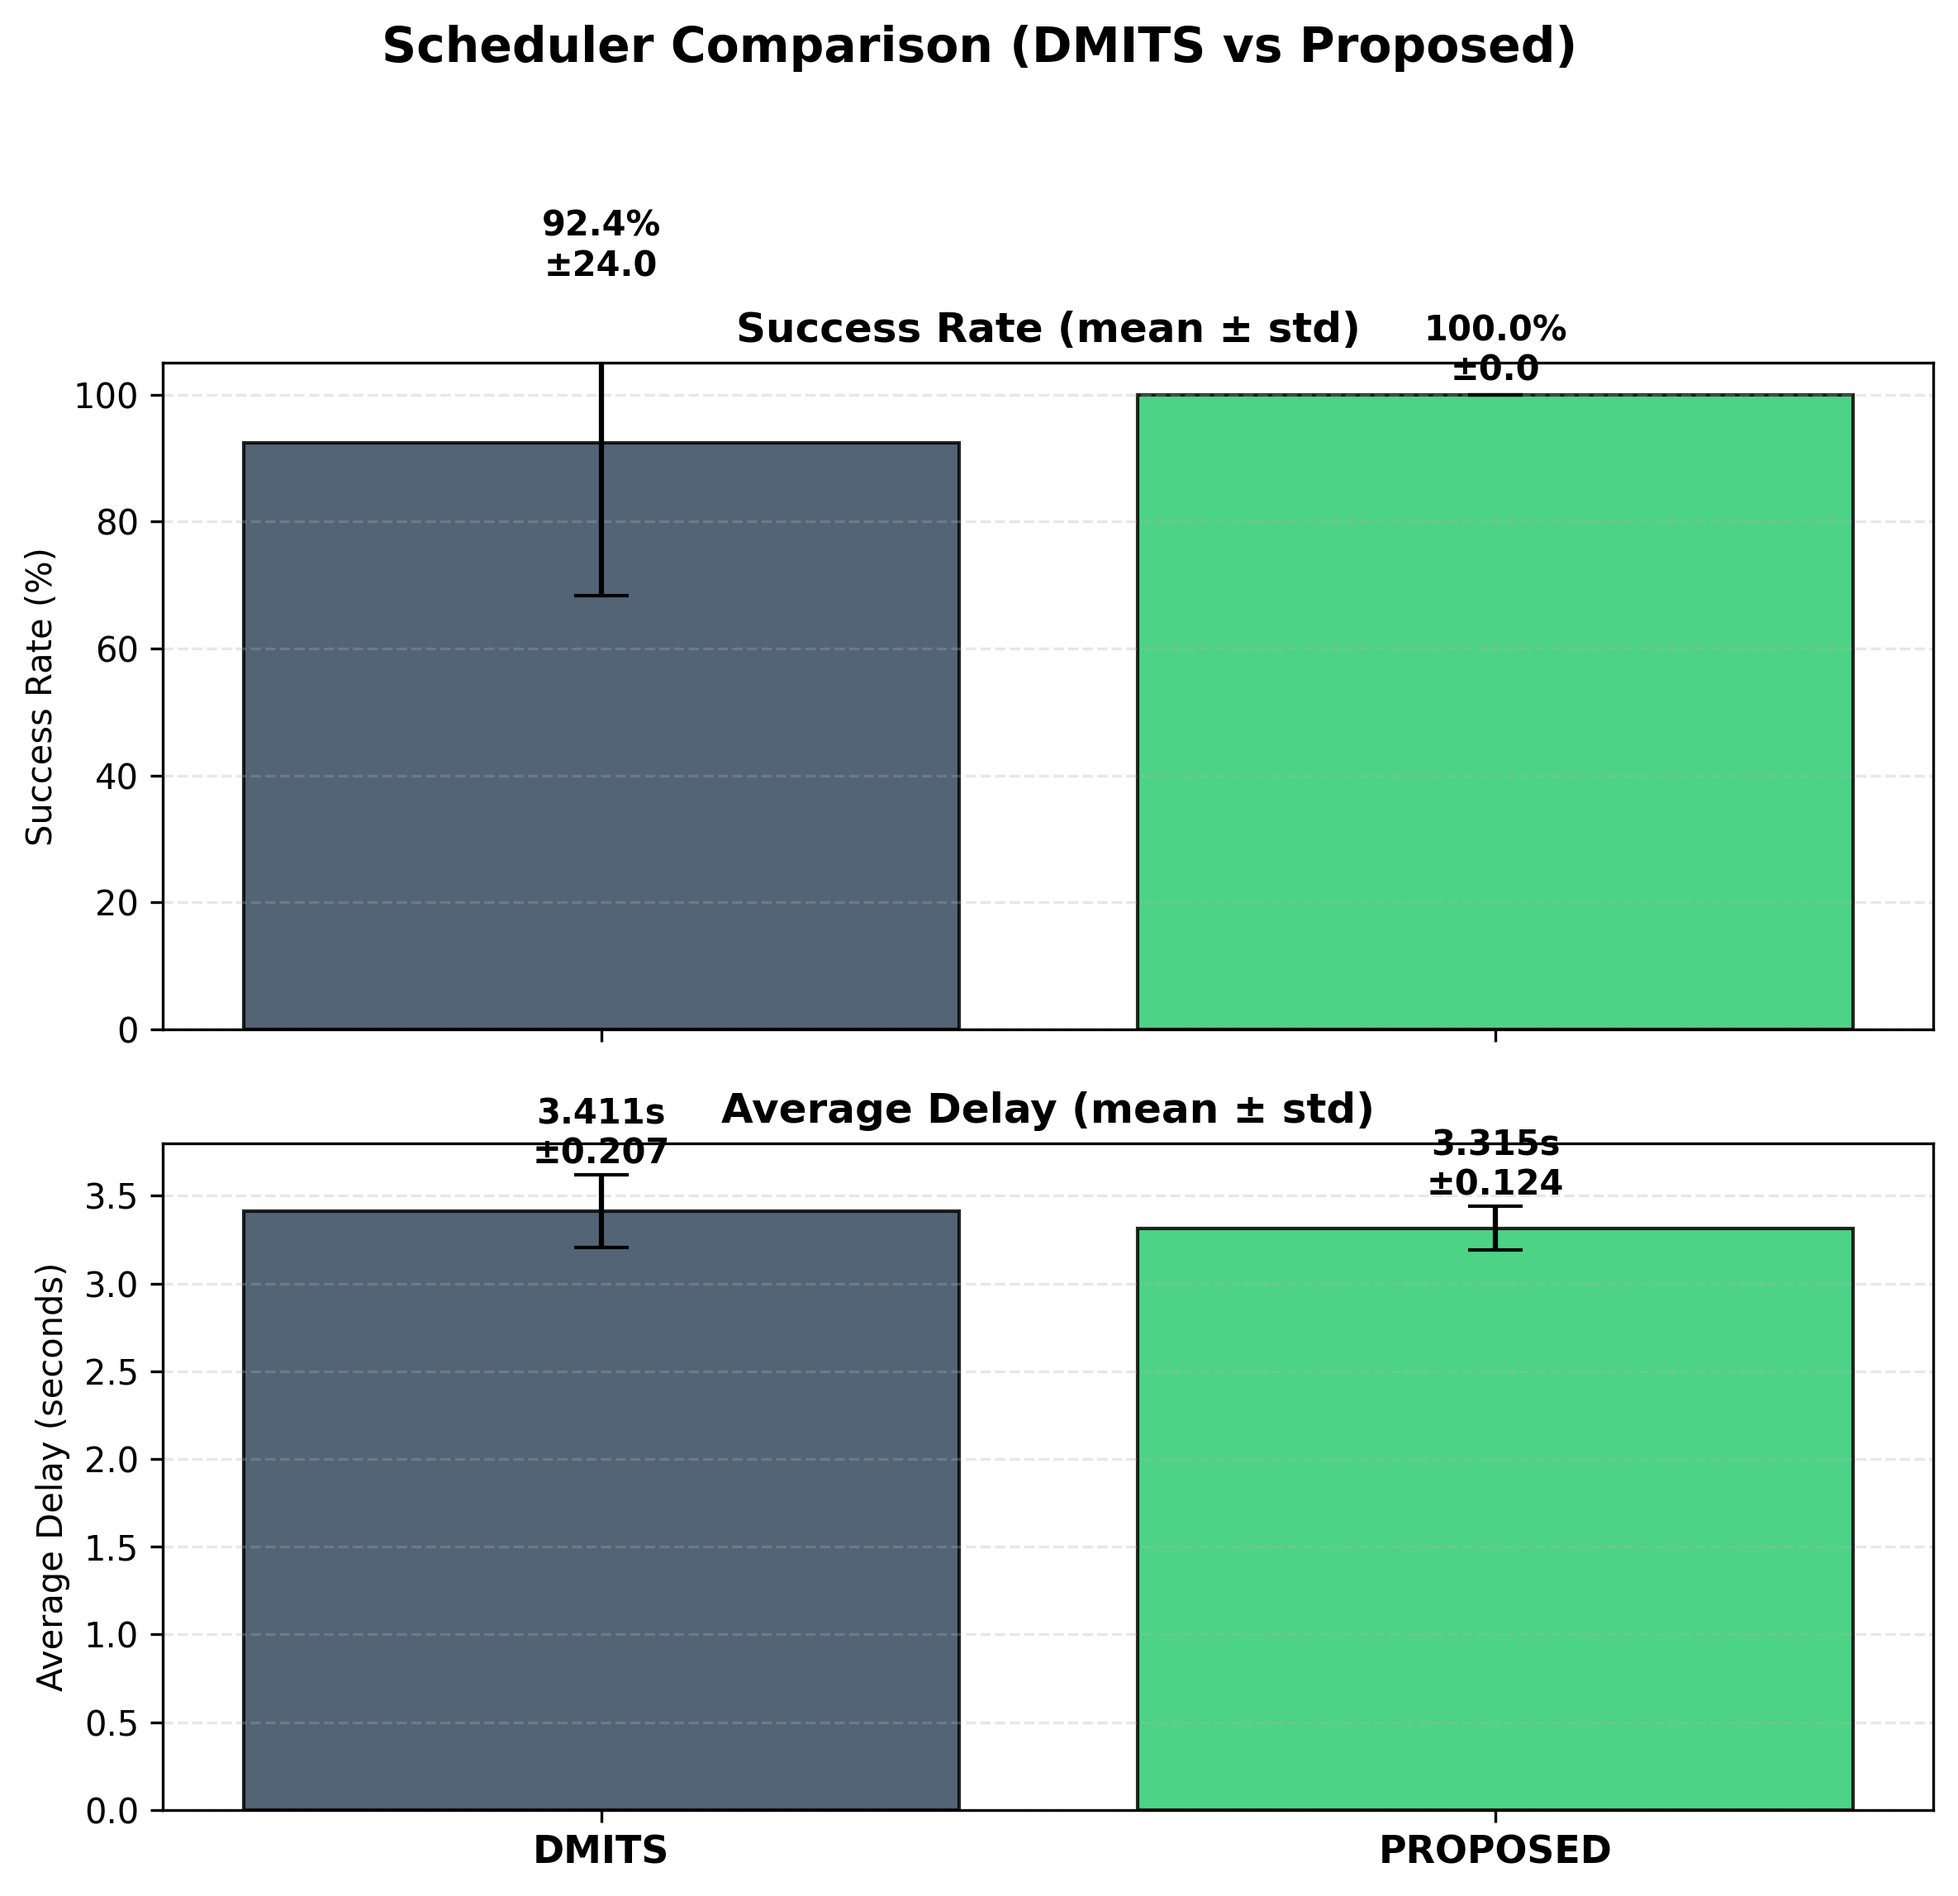
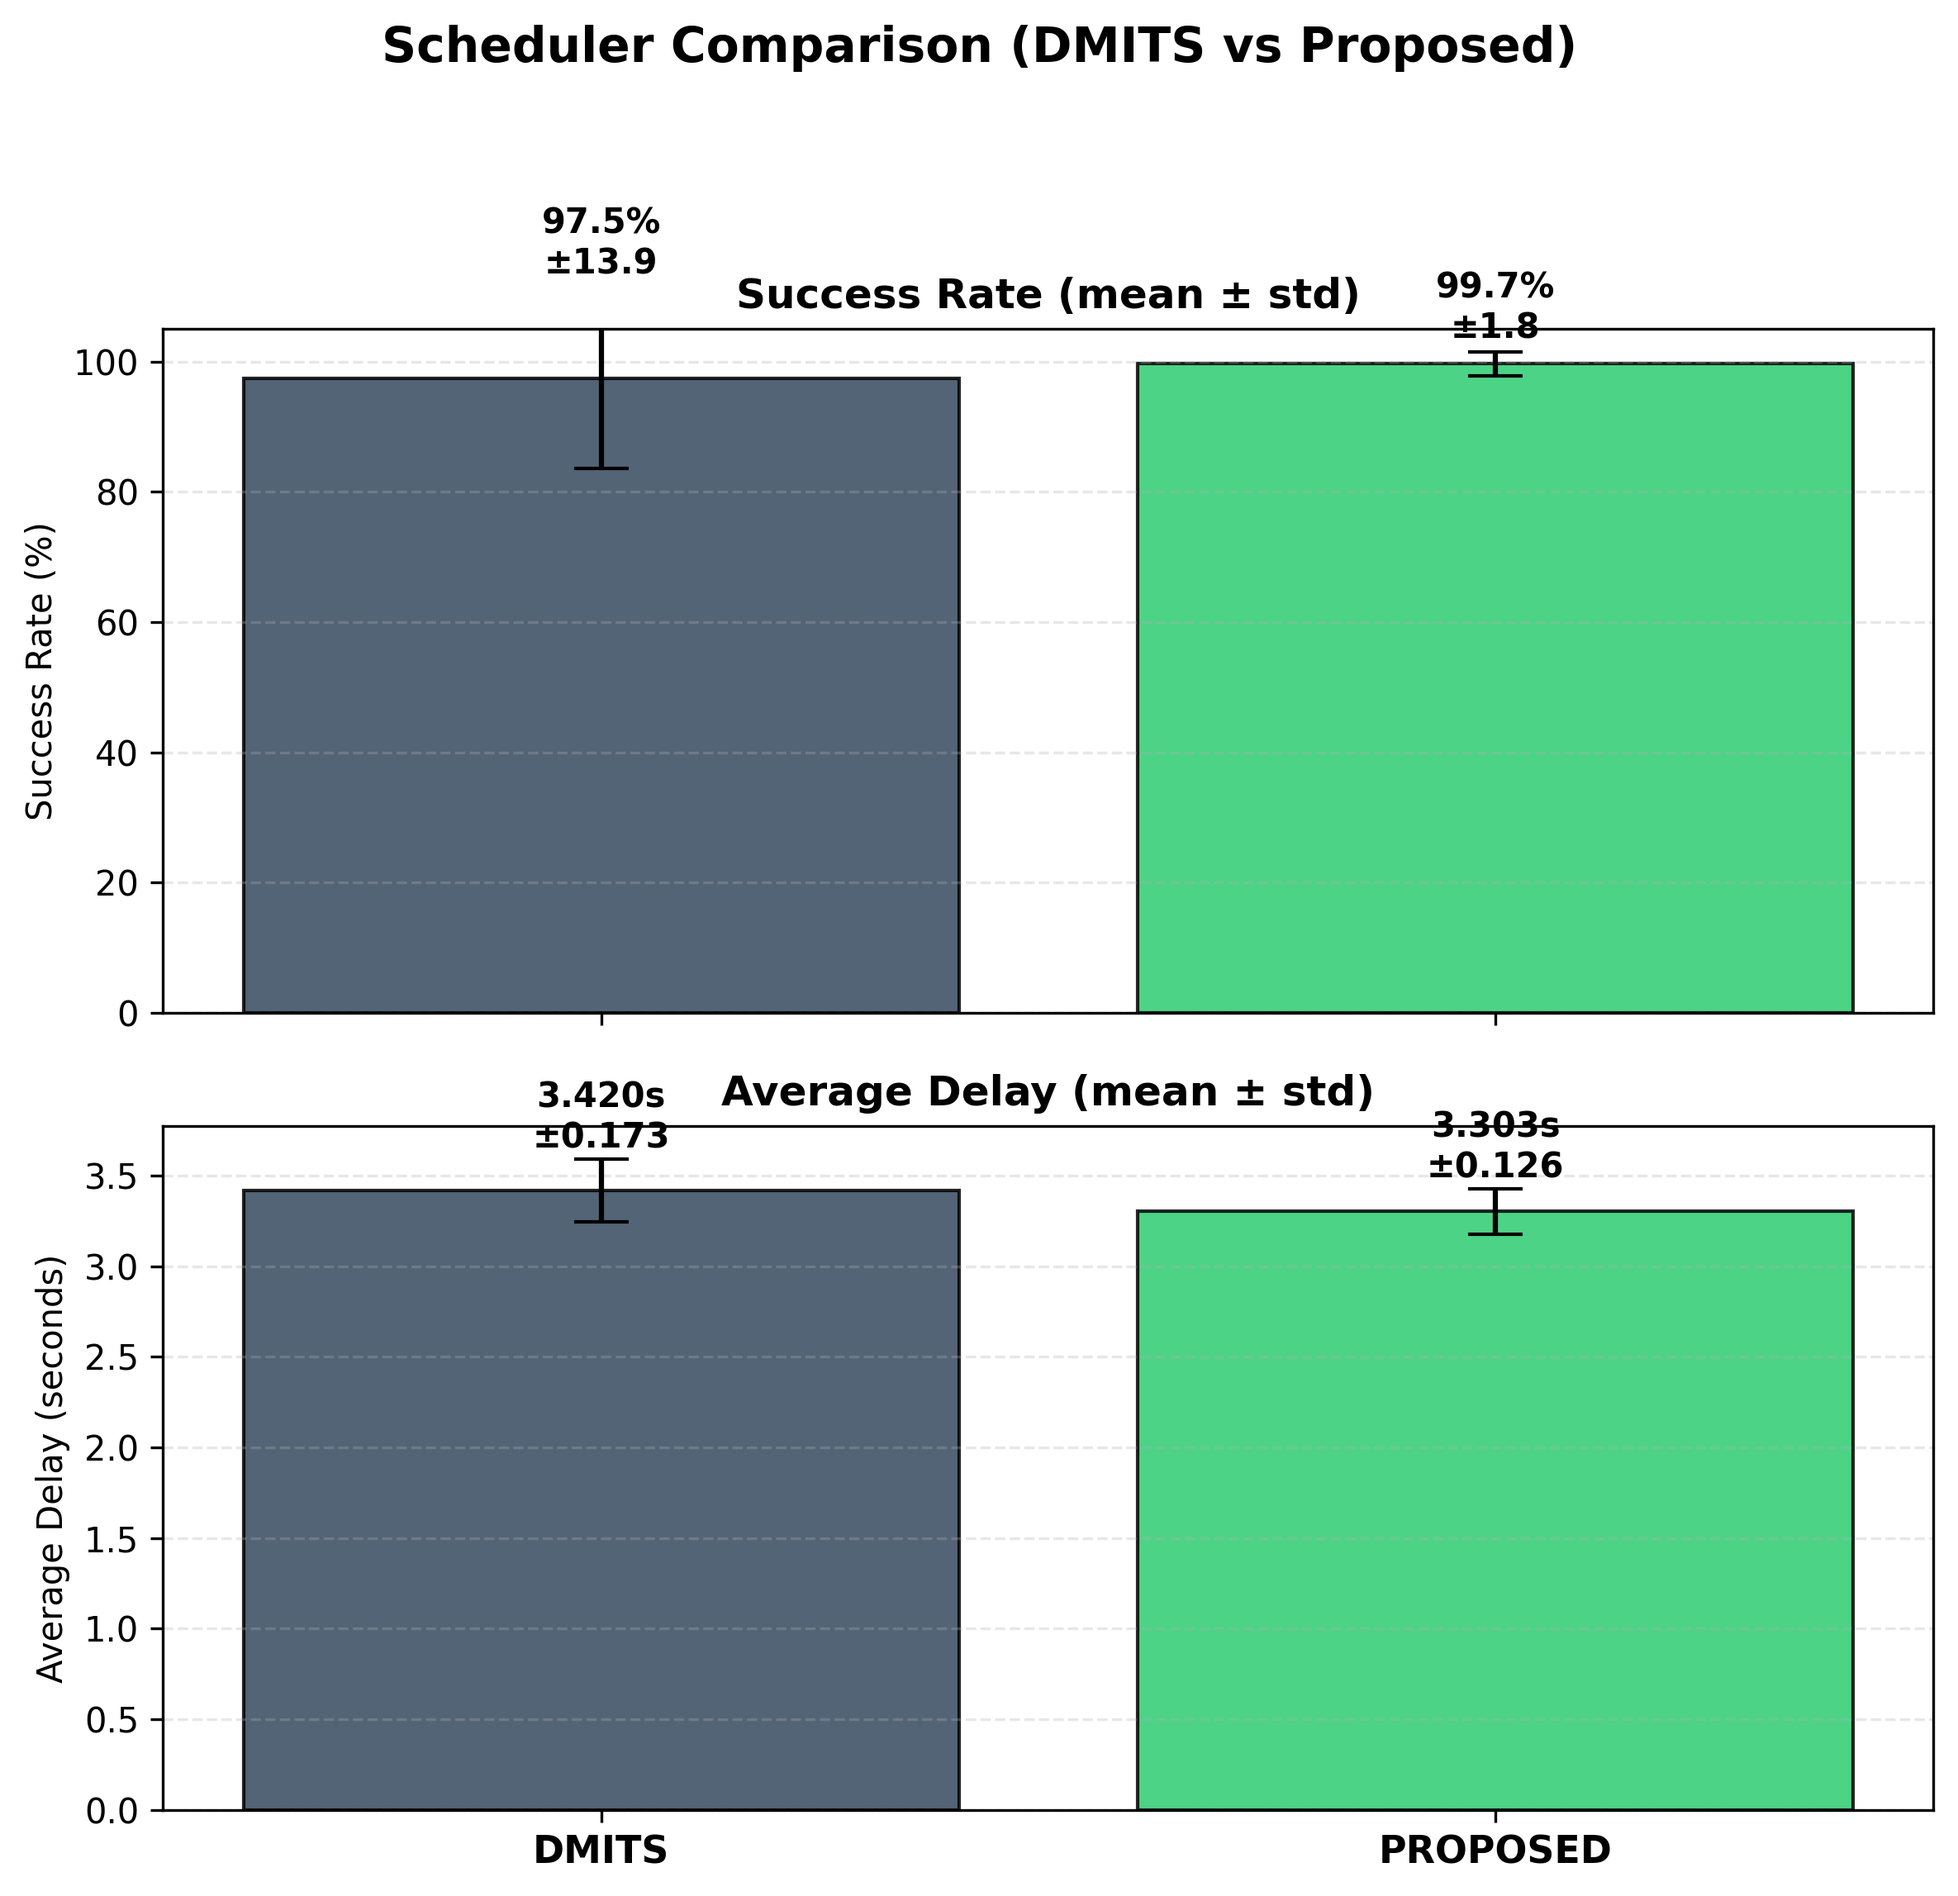
Add Streamlit interface and updated scheduler comparison results

diff --git a/interface.py b/interface.py
@@ -1,0 +1,133 @@
+"""
+Streamlit interface to visualize and compare DMITS (baseline) and PROPOSED scheduler results.
+
+This app reads the CSV / text outputs produced by `main.py` and presents:
+- High-level summary metrics for each scheduler
+- Per-trial comparison plots (success rate, delay, completed tasks)
+- The final bar-chart image already generated by `plot_with_error_bars`
+"""
+
+from __future__ import annotations
+
+from pathlib import Path
+
+import pandas as pd
+import streamlit as st
+
+
+RESULTS_DIR = Path("results")
+TRIAL_RESULTS_CSV = RESULTS_DIR / "trial_results.csv"
+SUMMARY_TXT = RESULTS_DIR / "summary.txt"
+COMPARISON_PNG = RESULTS_DIR / "comparison_results.png"
+
+
+def load_csv(path: Path) -> pd.DataFrame | None:
+    if not path.exists():
+        return None
+    return pd.read_csv(path)
+
+
+def main() -> None:
+    st.set_page_config(
+        page_title="Scheduler Comparison: DMITS vs Proposed",
+        layout="wide",
+    )
+
+    st.title("Scheduler Comparison: **DMITS** vs **PROPOSED**")
+    st.write(
+        "This interface visualizes the results generated by `main.py`, "
+        "comparing the baseline **DMITS** scheduler with the **Proposed** scheduler."
+    )
+
+    with st.sidebar:
+        st.header("Instructions")
+        st.markdown(
+            "- Ensure you have run `python main.py` at least once so that the "
+            "`results/` folder is populated.\n"
+            "- Use the sections on this page to explore high-level metrics, "
+            "per-trial performance, and the final comparison chart."
+        )
+
+    # Load all available outputs
+    trial_df = load_csv(TRIAL_RESULTS_CSV)
+    summary_text = SUMMARY_TXT.read_text(encoding="utf-8") if SUMMARY_TXT.exists() else None
+
+    if trial_df is None:
+        st.error(
+            f"Could not find `{TRIAL_RESULTS_CSV}`.\n\n"
+            "Please run `python main.py` in your project directory to generate the results."
+        )
+        return
+
+    # Normalize scheduler labels to be consistent
+    trial_df["scheduler"] = trial_df["scheduler"].str.upper()
+
+    st.subheader("High-level Summary")
+    cols = st.columns(2)
+
+    # Always compute aggregated statistics directly from `trial_results.csv`
+    with cols[0]:
+        st.markdown("**Aggregated metrics (computed from `trial_results.csv`)**")
+        agg = (
+            trial_df.groupby("scheduler")
+            .agg(
+                success_mean=("success_rate", "mean"),
+                success_std=("success_rate", "std"),
+                delay_mean=("avg_delay", "mean"),
+                delay_std=("avg_delay", "std"),
+                completed_mean=("completed_tasks", "mean"),
+            )
+            .reset_index()
+        )
+        st.dataframe(agg, use_container_width=True)
+
+    with cols[1]:
+        if summary_text:
+            st.markdown("**Text summary (`summary.txt`)**")
+            st.text(summary_text)
+        else:
+            st.info("No `summary.txt` file found.")
+
+    st.markdown("---")
+    st.subheader("Per-trial Comparison")
+
+    metric = st.selectbox(
+        "Metric to compare per trial",
+        options=["success_rate", "avg_delay", "completed_tasks", "total_time"],
+        format_func=lambda x: {
+            "success_rate": "Success Rate (%)",
+            "avg_delay": "Average Delay (s)",
+            "completed_tasks": "Completed Tasks",
+            "total_time": "Total Time (s)",
+        }[x],
+    )
+
+    # Pivot data to have DMITS and PROPOSED side-by-side for each trial
+    if "trial" in trial_df.columns:
+        pivot = trial_df.pivot_table(
+            index="trial",
+            columns="scheduler",
+            values=metric,
+        )
+
+        st.line_chart(pivot, use_container_width=True)
+
+        st.markdown("**Raw per-trial data**")
+        st.dataframe(trial_df.sort_values(["trial", "scheduler"]), use_container_width=True)
+    else:
+        st.warning("The `trial_results.csv` file does not contain a `trial` column.")
+        st.dataframe(trial_df, use_container_width=True)
+
+    st.markdown("---")
+    st.subheader("Final Comparison Chart")
+
+    if COMPARISON_PNG.exists():
+        st.image(str(COMPARISON_PNG), caption="Scheduler Comparison (DMITS vs Proposed)", use_column_width=True)
+    else:
+        st.info(f"No `{COMPARISON_PNG.name}` image found in the `results/` directory.")
+
+
+if __name__ == "__main__":
+    main()
+
+
